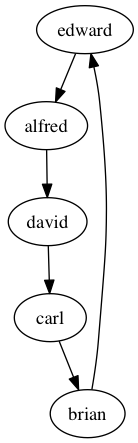
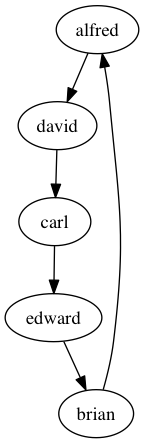
Show an image and output from the same run

Changed region(s): [[0.029, 0.0, 0.9855, 0.9977]]

diff --git a/README.md b/README.md
@@ -19,11 +19,11 @@ Enter each name in the Secret Santa pool, separated by a space:
 => alfred brian carl david edward
 
 2014 Secret Santa List:
-carl -> david
-brian -> carl
-alfred -> brian
-edward -> alfred
-david -> edward
+alfred -> david
+brian -> alfred
+edward -> brian
+carl -> edward
+david -> carl
 
 List saved to 2014_secret_santa_list.png
 ```
